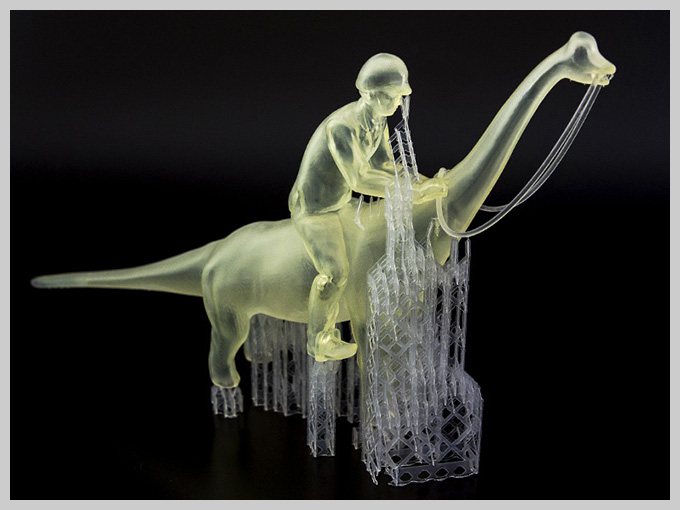
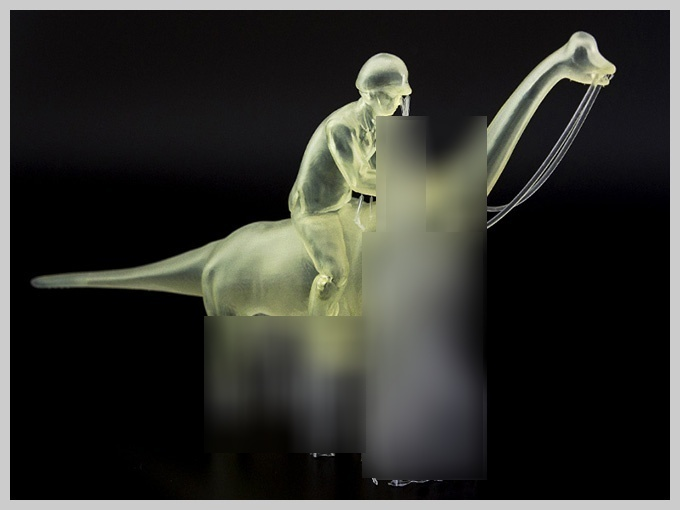
blurring multiple regions (calling functions multiple times)

Changed region(s): [[0.2779, 0.2059, 0.7412, 0.9412]]

diff --git a/rekognition/3dimages/blur_images.py b/rekognition/3dimages/blur_images.py
@@ -8,7 +8,7 @@ from os.path import isfile, join
 
 def gaussian_blur(file_name, coordinates):
     # Read in image
-    image = cv2.imread("./set2/"+file_name+".jpg")
+    image = cv2.imread("./3dimages/set2/" + file_name + ".jpg")
 
     # Create ROI coordinates
     blurred_image = cv2.GaussianBlur(image, (43, 43), 30)
@@ -27,31 +27,30 @@ def gaussian_blur(file_name, coordinates):
     # cv2.imshow('image', image)
     # cv2.waitKey()
 
-    cv2.imwrite('./set2_blurred/', final_image)
+    cv2.imwrite("./3dimages/set2/"+file_name+".jpg", final_image)
 
 
 def xml_to_json(file_name):
-    with open("./3dimages/set2_annotations/"+file_name) as xml_file:
+    with open("./3dimages/set2_annotations/" + file_name) as xml_file:
         data_dict = xmltodict.parse(xml_file.read())
 
     xml_file.close()
 
     json_data = json.dumps(data_dict)
 
-    with open("./3dimages/set2_annotations_json/"+file_name.split(".")[0]+".json", "w") as json_file:
+    with open("./3dimages/set2_annotations_json/" + file_name.split(".")[0] + ".json", "w") as json_file:
         json_file.write(json_data)
 
     json_file.close()
 
 
 def blur_region(id):
-    with open("./3dimages/set2_annotations_json/"+id+".json", "r") as json_file:
+    with open("./3dimages/set2_annotations_json/" + id + ".json", "r") as json_file:
         json_data = json.load(json_file)
 
     points = []
 
     for object in json_data['annotation']['object']:
-
         print(object['polygon']['pt'])
 
     gaussian_blur(id, points)
@@ -65,15 +64,13 @@ if __name__ == "__main__":
     segments = []
     for object in json_data['annotation']['object']:
 
-        polygons = []
+        polygon = []
         for point in object['polygon']['pt']:
-            polygons.append([point['x'], point['y']])
+            polygon.append([point['x'], point['y']])
 
-        segments.append(polygons)
+        print(polygon)
 
-    print(segments)
-
-    gaussian_blur("0", segments)
+        gaussian_blur("0", polygon)
 
     '''
     annotation_path = "./3dimages/set2_annotations"
@@ -81,7 +78,7 @@ if __name__ == "__main__":
 
     for file in files:
         xml_to_json(file)
-    
+
     #xml_to_json("0_blur_test")
 
     with open("./0_blur_test.json", "r") as json_file:

diff --git a/rekognition/rekognition_image_detection.py b/rekognition/rekognition_image_detection.py
@@ -131,6 +131,7 @@ class RekognitionImage:
         try:
             response = self.rekognition_client.detect_labels(
                 Image=self.image, MaxLabels=max_labels)
+            print(response)
             labels = [RekognitionLabel(label) for label in response['Labels']]
             logger.info("Found %s labels in %s.", len(labels), self.image_name)
         except ClientError:
